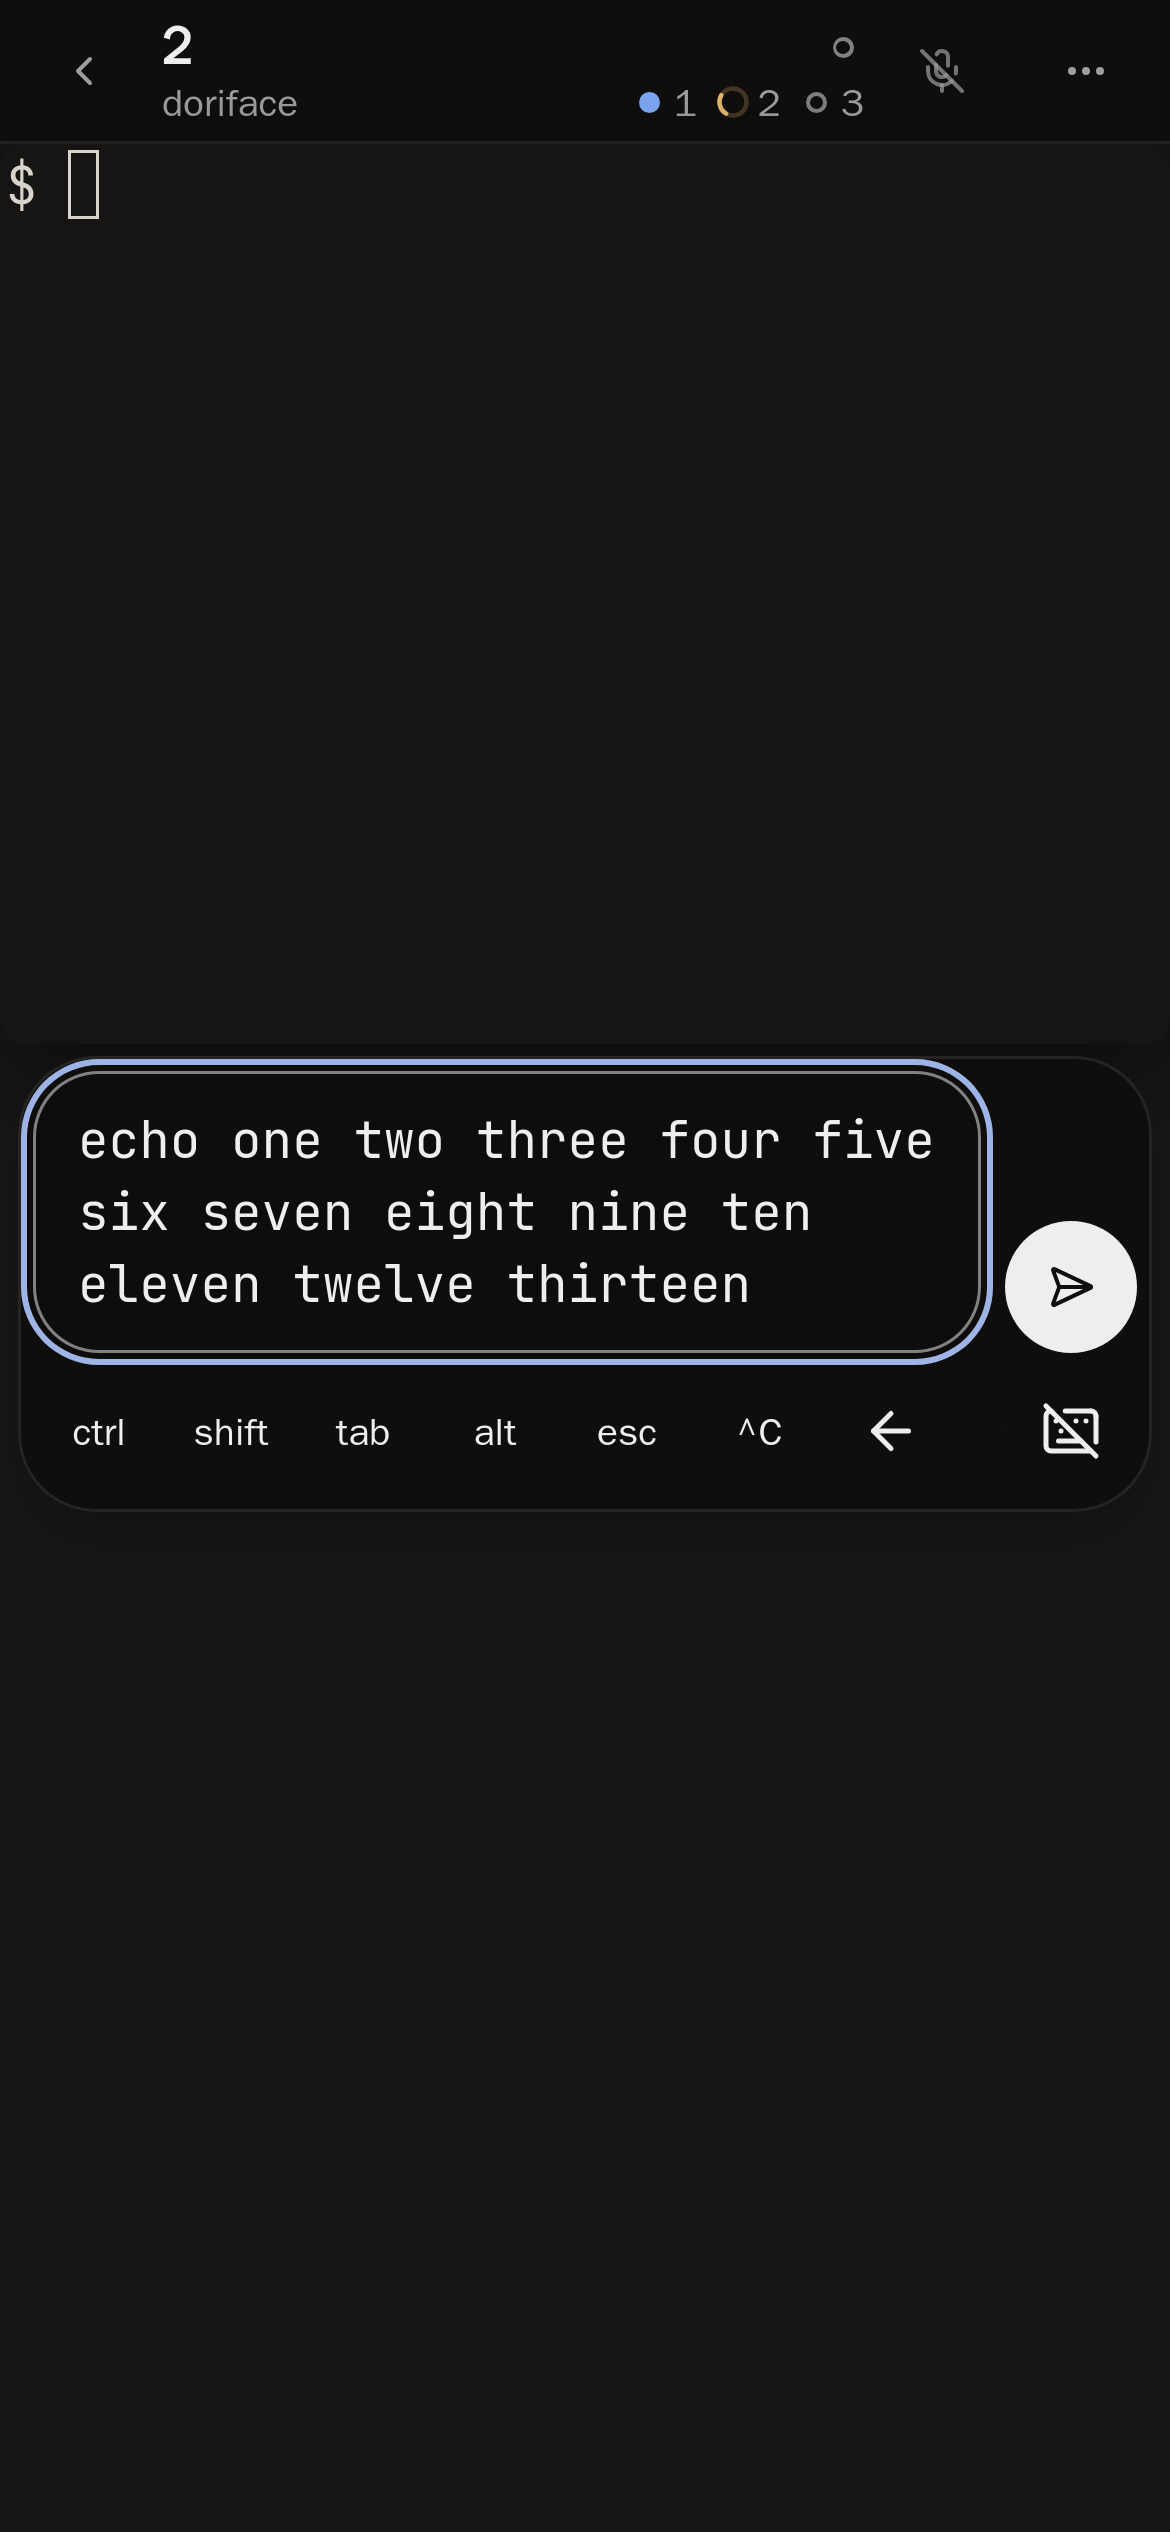
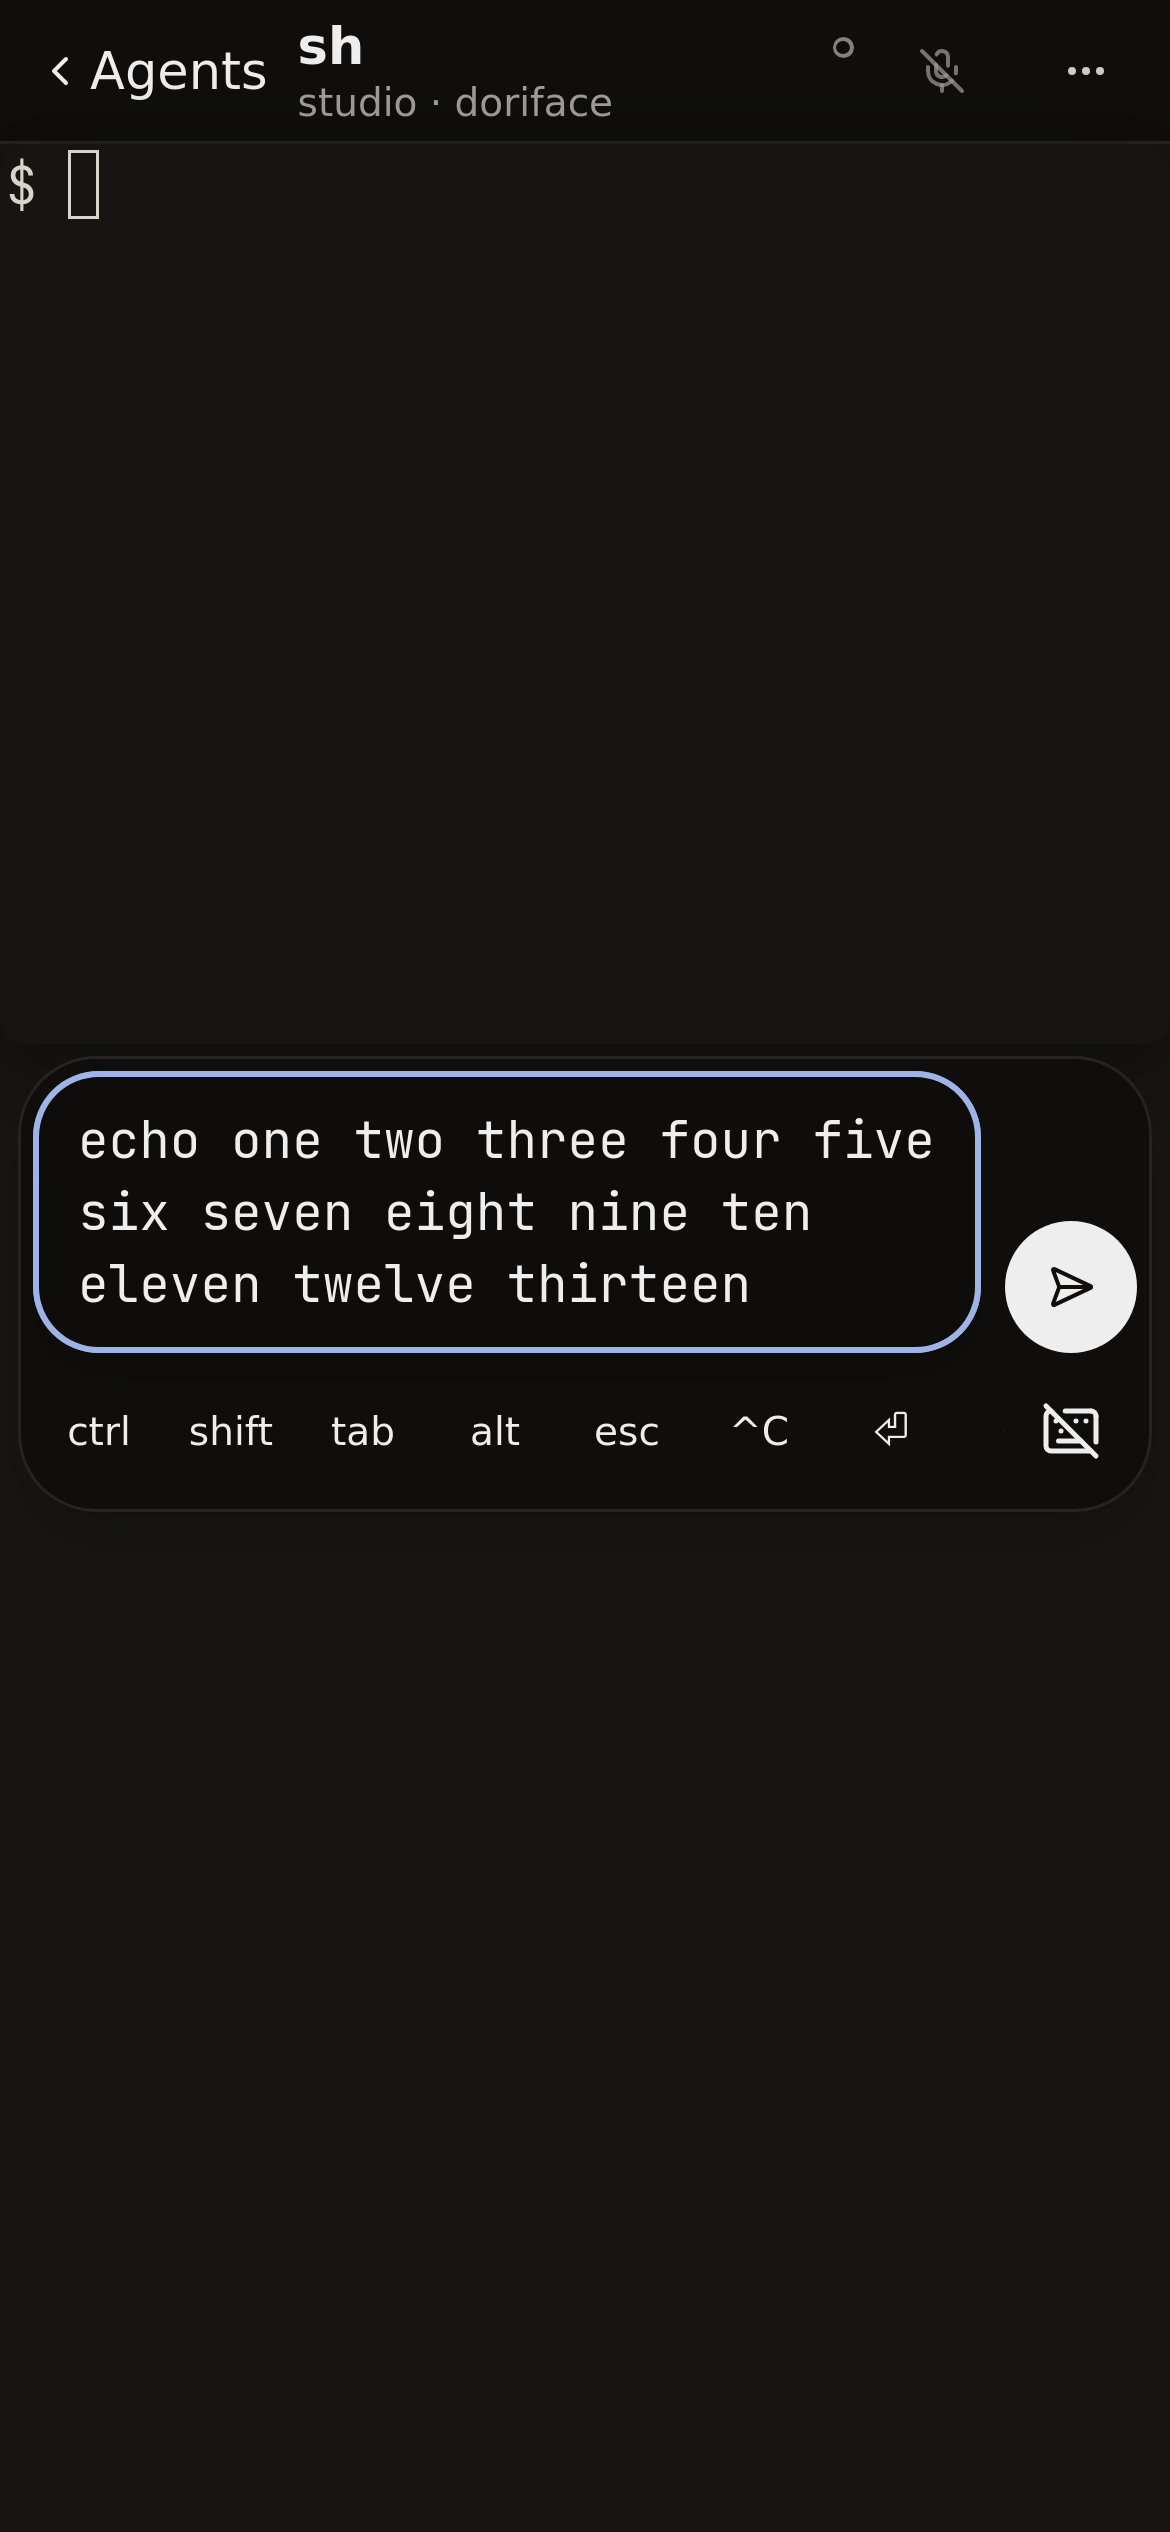
fix(web): the phone Type field draws its focus ring inside, so Send keeps its 0.5rem gap (Fixes #1516)
The field's focus-visible outline was drawn outside its box and took 4 px of the 8 px gap #1512 opened before Send. An
outline offset of minus its width draws it inside the field, so the visible gap is the phone chrome's 0.5rem with the
field focused, idle and grown. Captures for both themes, idle, focused and grown, in WebKit.

diff --git a/apps/web/src/workspace/input-box.tsx b/apps/web/src/workspace/input-box.tsx
@@ -99,7 +99,7 @@ export function InputBox({ onSend, draftKey, onActive, className, style }: Input
         }}
         className={cn(
           "min-h-11 min-w-0 flex-1 resize-none border border-input bg-chrome/95 px-3.5 py-2.5 font-mono text-base leading-6 wrap-break-word whitespace-pre-wrap text-foreground",
-          "shadow-lg outline-none backdrop-blur-md placeholder:text-muted-foreground focus-visible:outline-2 focus-visible:outline-solid focus-visible:outline-ring",
+          "shadow-lg outline-none backdrop-blur-md placeholder:text-muted-foreground focus-visible:outline-2 focus-visible:-outline-offset-2 focus-visible:outline-solid focus-visible:outline-ring",
           active ? "rounded-[1.375rem]" : "h-11 rounded-full",
         )}
         placeholder="Type"
